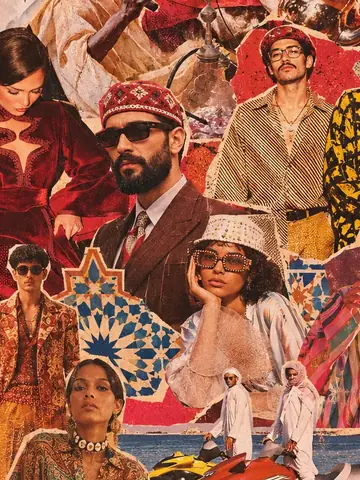
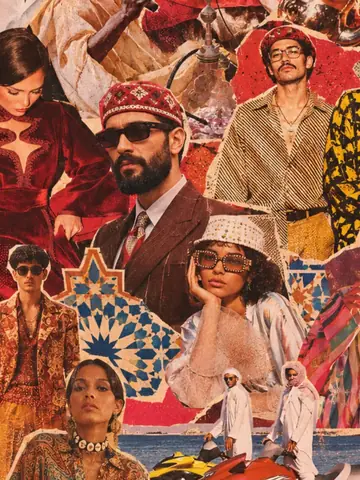
Maximalist: new poster (higher res, no club-night text); bigger desktop cutouts
- poster.webp replaced: 1125x2000 (was 941x1672), 'A club night, New York
  City' removed, 494 KB (was 636 KB). Home card crop regenerated from it.
- Laptop cutout unit 62vh -> min(78vh, 52vw) (~25% bigger, capped on narrow
  landscape screens); rows 72vh -> 82vh to keep spacing. Phones unchanged.

Claude-Session: https://claude.ai/code/session_01TTV1y998Z9XfPM1CpU152b

diff --git a/themes/maximalist/index.html b/themes/maximalist/index.html
@@ -30,7 +30,8 @@
   }
   @supports (height: 1svh) { :root { --row: 56svh; } }
   @media (min-aspect-ratio: 3/4) {
-    :root { --u: 62vh; --row: 72vh; }
+    /* laptop: bigger cutouts (capped by width so narrow landscape screens don't overflow) */
+    :root { --u: min(78vh, 52vw); --row: 82vh; }
   }
 
   html { scroll-behavior: smooth; }
@@ -56,7 +57,7 @@
   @supports (height: 1svh) { .stage { --vh: 100svh; } }
   .stage .sharp {
     top: 0; left: 50%;
-    width: max(100vw, calc(var(--vh) * var(--overscan) * 941 / 1672)); height: auto;
+    width: max(100vw, calc(var(--vh) * var(--overscan) * 1125 / 2000)); height: auto;
     transform: translate3d(-50%, var(--pan, 0px), 0);
     will-change: transform;
   }
@@ -151,7 +152,7 @@
 </head>
 <body>
 <div class="stage" aria-hidden="true">
-  <img class="sharp" src="poster.webp" alt="" width="941" height="1672" fetchpriority="high">
+  <img class="sharp" src="poster.webp" alt="" width="1125" height="2000" fetchpriority="high">
   <div class="shade"></div>
 </div>
 
